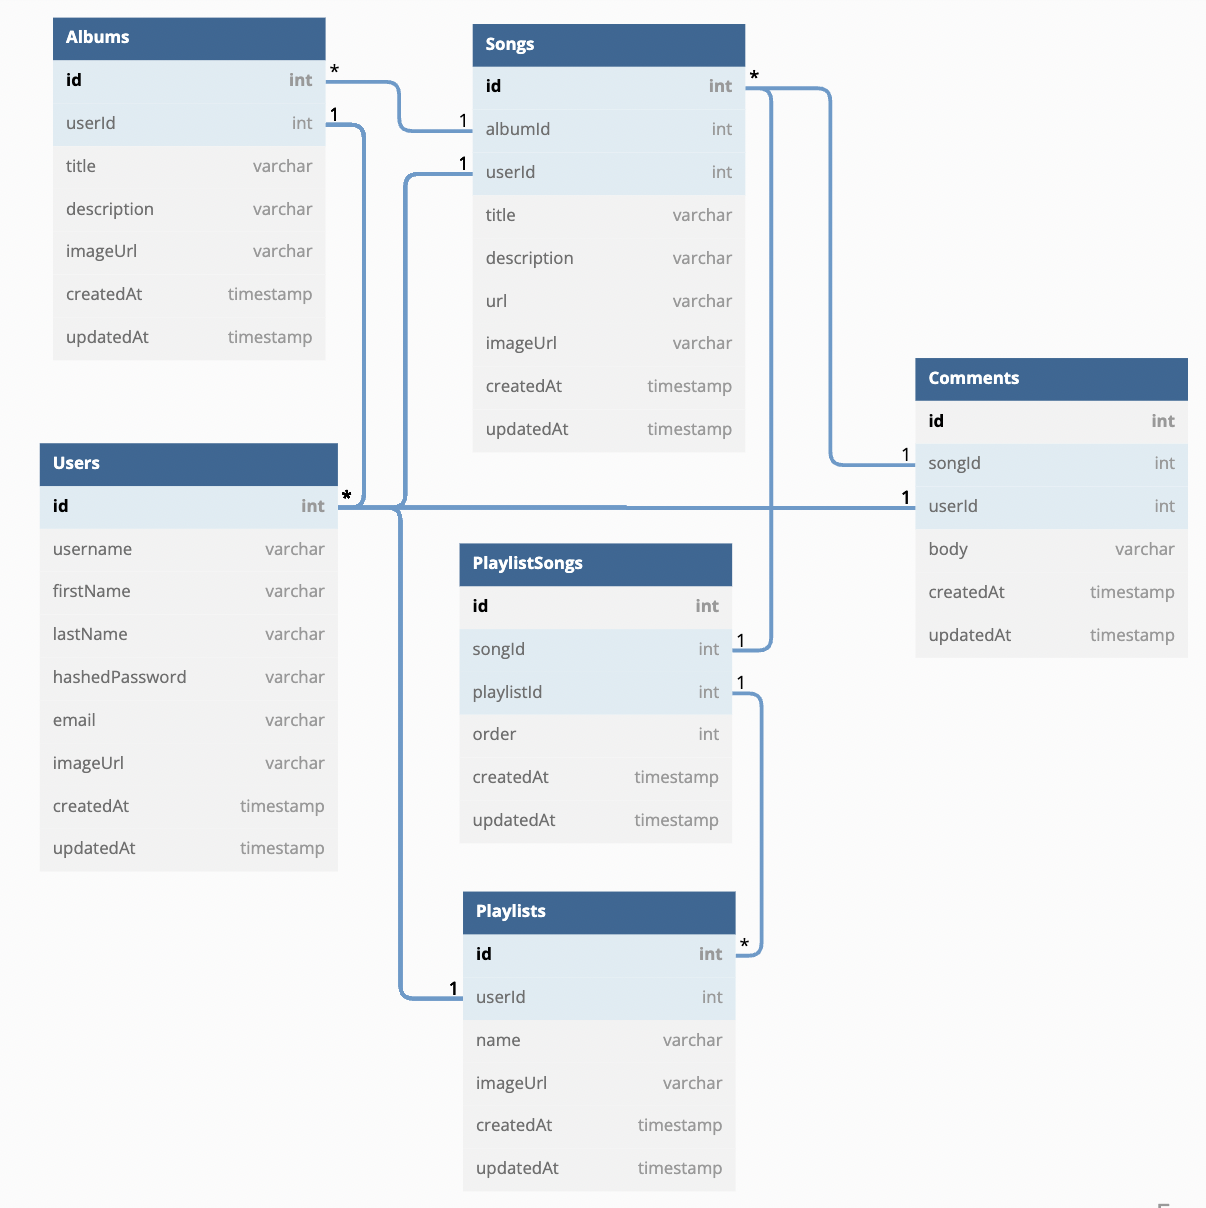
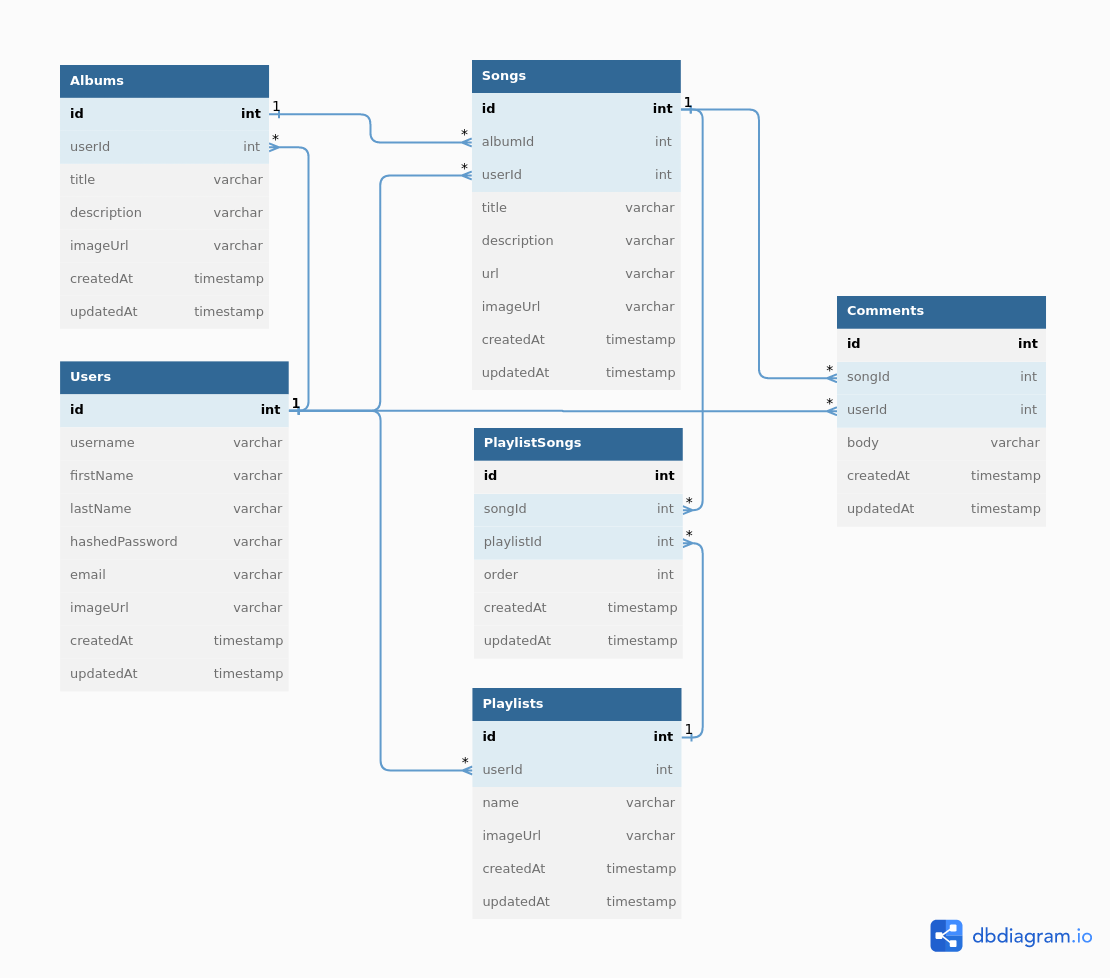
Correct db diagram; update markdown; add corrected diagram

Changed region(s): [[0.0306, 0.0, 1.0, 0.9816], [0.0306, 0.3681, 0.1532, 0.7055], [0.827, 0.9202, 0.9802, 0.9816]]

diff --git a/dbdiagram/diagram.md b/dbdiagram/diagram.md
@@ -1,63 +1,63 @@
-Table users {
-  id int [pk, increment]
-  firstName varchar
-  lastName varchar
-  email varchar [not null, unique]
-  username varchar [not null, unique]
-  password varchar [not null]
+// Updated 2022-10-12
+
+Table Albums {
+id int [pk, increment, ref: < Songs.albumId]
+userId int [ref: > Users.id]
+title varchar
+description varchar
+imageUrl varchar
+createdAt timestamp
+updatedAt timestamp
 }
 
-Table artists {
-  id int [pk, increment]
-  previewImage varchar
-  totalAlbums int 
-  totalSongs int
+// If schema name is omitted, it will default to "public" schema.
+Table Users {
+id int [pk, increment, ref: < Playlists.userId]
+username varchar
+firstName varchar
+lastName varchar
+hashedPassword varchar
+email varchar
+imageUrl varchar
+createdAt timestamp
+updatedAt timestamp
 }
 
-Table songs {
-  id int [pk, increment]
-  userId int [ref: > users.id, not null]
-  albumId int  [ref: > albums.id, null]
-  title varchar [not null]
-  description varchar
-  url varchar [not null]
-  createdAt datetime
-  updatedAt datetime
-  previewImage varchar
+Table Songs {
+id int [pk, increment]
+albumId int
+userId int [ref: > Users.id]
+title varchar
+description varchar
+url varchar
+imageUrl varchar
+createdAt timestamp
+updatedAt timestamp
 }
 
-Table playlists {
-  id int [pk, increment]
-  userId int  [ref: > users.id]
-  name varchar
-  createdAt datetime
-  updatedAt datetime
-  previewImage varchar
+Table PlaylistSongs {
+id int [pk, increment]
+songId int [ref: > Songs.id]
+playlistId int
+order int
+createdAt timestamp
+updatedAt timestamp
 }
 
-// joins table
-table playlistSongs {
-  id int [pk, increment]
-  playlistId int [ref: > playlists.id]
-  songId int [ref: > songs.id]
+Table Playlists {
+id int [pk, increment, ref: < PlaylistSongs.playlistId]
+userId int
+name varchar
+imageUrl varchar
+createdAt timestamp
+updatedAt timestamp
 }
 
-table comments {
-  id int [pk, increment]
-  userId int [ref: > users.id]
-  songId int [ref: > songs.id]
-  body varchar 
-  createdAt datetime
-  updatedAt datetime
-}
-
-table albums {
-  id int [pk, increment]
-  userId int [ref: > users.id]
-  title varchar
-  description varchar
-  createdAt datetime
-  updatedAt datetime
-  previewImage varchar
-  artistId int [ref: > artists.id, not null]
+Table Comments {
+id int [pk, increment]
+songId int [ref: > Songs.id]
+userId int [ref: > Users.id]
+body varchar
+createdAt timestamp
+updatedAt timestamp
 }
